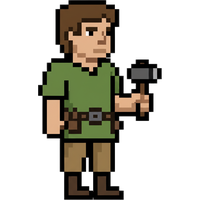
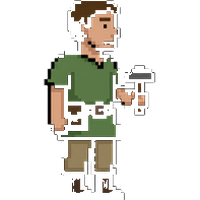
trying to orient

Changed region(s): [[0.18, 0.0, 0.81, 1.0]]

diff --git a/scripts/generate_assets.py b/scripts/generate_assets.py
@@ -220,21 +220,49 @@ def flood_fill_bg(img: Image.Image, tol: int = 18) -> Image.Image:
     w, h = img.size
     px = img.load()
     corners = [(0, 0), (w - 1, 0), (0, h - 1), (w - 1, h - 1)]
-    corner_colors = [px[x, y][:3] for x, y in corners]
 
     def color_close(c, ref) -> bool:
         return all(abs(int(c[i]) - int(ref[i])) <= tol for i in range(3))
 
+    border_colors: dict[tuple[int, int, int], int] = {}
+    for x in range(w):
+        for y in (0, h - 1):
+            r, g, b, a = px[x, y]
+            if a == 0:
+                continue
+            key = (r // 8, g // 8, b // 8)
+            border_colors[key] = border_colors.get(key, 0) + 1
+    for y in range(h):
+        for x in (0, w - 1):
+            r, g, b, a = px[x, y]
+            if a == 0:
+                continue
+            key = (r // 8, g // 8, b // 8)
+            border_colors[key] = border_colors.get(key, 0) + 1
+
+    if border_colors:
+        top = sorted(border_colors.items(), key=lambda item: item[1], reverse=True)[:4]
+        bg_colors = [(k[0] * 8, k[1] * 8, k[2] * 8) for k, _ in top]
+    else:
+        bg_colors = [px[x, y][:3] for x, y in corners]
+
     visited = [[False] * h for _ in range(w)]
     q: deque[tuple[int, int]] = deque()
-    for x, y in corners:
-        q.append((x, y))
-        visited[x][y] = True
+    for x in range(w):
+        for y in (0, h - 1):
+            if not visited[x][y]:
+                q.append((x, y))
+                visited[x][y] = True
+    for y in range(h):
+        for x in (0, w - 1):
+            if not visited[x][y]:
+                q.append((x, y))
+                visited[x][y] = True
 
     while q:
         x, y = q.popleft()
         r, g, b, a = px[x, y]
-        if any(color_close((r, g, b), ref) for ref in corner_colors):
+        if a == 0 or any(color_close((r, g, b), ref) for ref in bg_colors):
             px[x, y] = (r, g, b, 0)
             for nx, ny in ((x - 1, y), (x + 1, y), (x, y - 1), (x, y + 1)):
                 if 0 <= nx < w and 0 <= ny < h and not visited[nx][ny]:
@@ -324,6 +352,7 @@ def main() -> None:
     parser.add_argument("--size", type=int, default=200, help="Output square size.")
     parser.add_argument("--postprocess", action="store_true")
     parser.add_argument("--postprocess-only", action="store_true")
+    parser.add_argument("--postprocess-tol", type=int, default=18, help="Background keying tolerance.")
     parser.add_argument(
         "--oriented",
         action="store_true",
@@ -381,7 +410,7 @@ def main() -> None:
                     continue
                 with Image.open(target) as existing:
                     img = existing.convert("RGBA")
-                img = apply_postprocess(img, args.size)
+                img = apply_postprocess(img, args.size, args.postprocess_tol)
                 img.save(target)
                 continue
             if not reference.exists():
@@ -393,7 +422,7 @@ def main() -> None:
                 client, args.model, prompt, args.seed + idx, args.size, reference
             )
             if args.postprocess:
-                img = apply_postprocess(img, args.size)
+                img = apply_postprocess(img, args.size, args.postprocess_tol)
             elif args.size and img.size != (args.size, args.size):
                 img = img.resize((args.size, args.size), Image.LANCZOS)
             target.parent.mkdir(parents=True, exist_ok=True)
@@ -417,7 +446,7 @@ def main() -> None:
                     continue
                 with Image.open(target) as existing:
                     img = existing.convert("RGBA")
-                img = apply_postprocess(img, args.size)
+                img = apply_postprocess(img, args.size, args.postprocess_tol)
                 img.save(target)
                 continue
             if not source.exists():
@@ -426,7 +455,7 @@ def main() -> None:
                 img = existing.convert("RGBA")
             img = flip_horizontal(img)
             if args.postprocess:
-                img = apply_postprocess(img, args.size)
+                img = apply_postprocess(img, args.size, args.postprocess_tol)
             elif args.size and img.size != (args.size, args.size):
                 img = img.resize((args.size, args.size), Image.LANCZOS)
             target.parent.mkdir(parents=True, exist_ok=True)
@@ -446,14 +475,14 @@ def main() -> None:
                     continue
                 with Image.open(target) as existing:
                     img = existing.convert("RGBA")
-                img = apply_postprocess(img, args.size)
+                img = apply_postprocess(img, args.size, args.postprocess_tol)
                 img.save(target)
                 continue
             if client is None:
                 raise SystemExit("Client not initialized for image generation.")
             img = generate_image(client, args.model, prompt, args.seed + idx, args.size)
             if args.postprocess:
-                img = apply_postprocess(img, args.size)
+                img = apply_postprocess(img, args.size, args.postprocess_tol)
             elif args.size and img.size != (args.size, args.size):
                 img = img.resize((args.size, args.size), Image.LANCZOS)
             target.parent.mkdir(parents=True, exist_ok=True)
